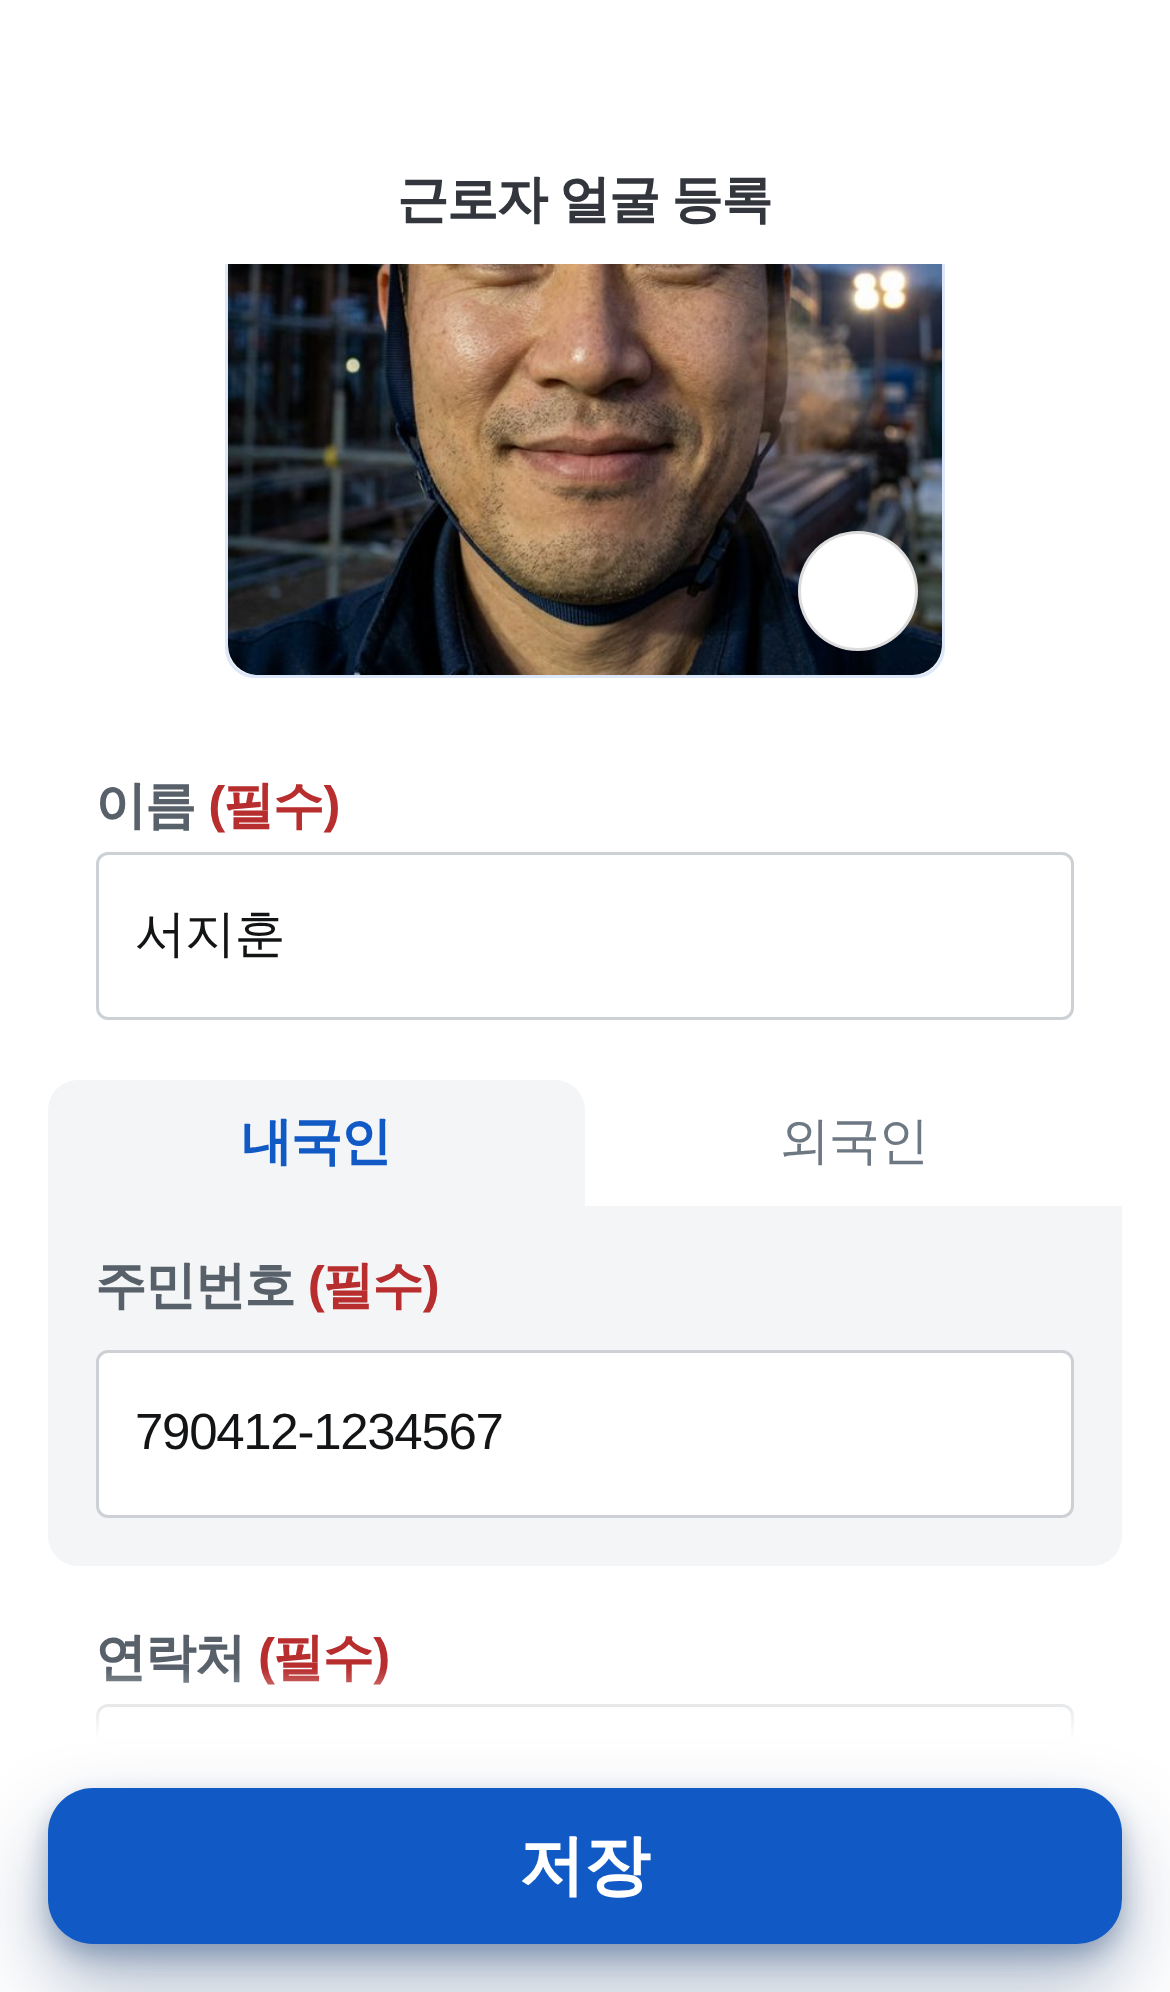
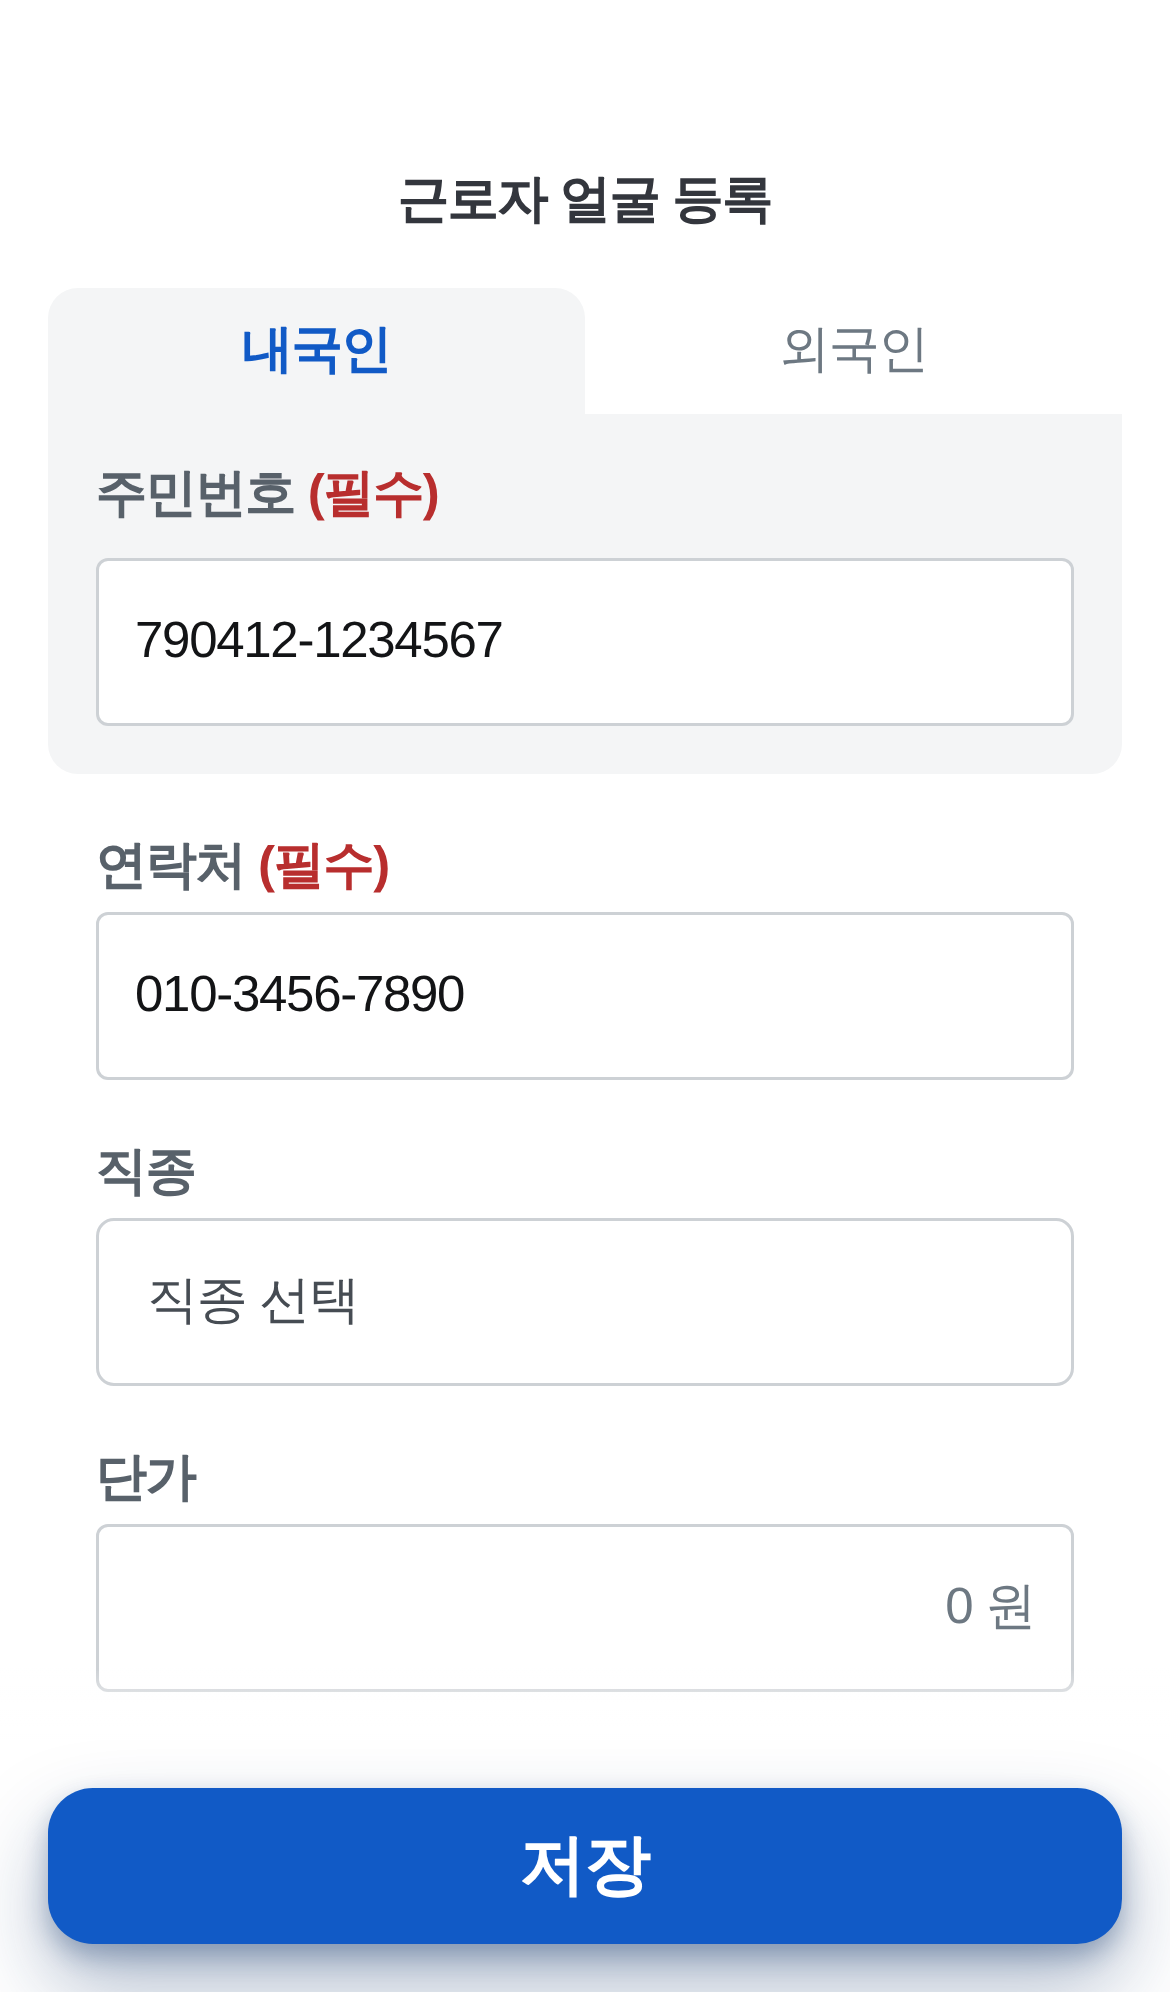
지금 적는 칸을 묻는 줄 바로 아래로 끌어올린다
답한 것이 위에 쌓여 가니 적을 칸이 그 아래에 묻혔다 — 굴려 찾아야 했다.
칸이 열릴 때마다 **묻는 줄 바로 아래**로 올린다(atop). 붙어 있는 그 줄이
가리지 않도록 줄의 키만큼 뺀다.

마지막 칸은 제 아래에 굴릴 것이 없어 끝까지 올라오지 못한다 — 모자란
만큼 본문 발치를 늘인다(--ap-flow-tail). 늘인 자리는 그 칸 아래에 남는
빈 자리이고, 다음 칸이 열리면 그만큼 줄어든다. 다 채우면 걷는다.
⚠ 한 번 셈으로는 모자랄 때가 있다 — 내용이 화면보다 짧으면 scrollHeight 가
  화면 키로 바닥을 치므로(max), 늘인 만큼이 그대로 굴릴 거리가 되지 않는다.
  모자라면 다시 재서 보탠다(최대 세 번).

자판이 올라와 화면이 줄 때도 같은 셈을 쓴다 — fit 의 near 가 가운데가
아니라 맨 위로 올린다(차례대로 묻는 폼일 때만).

화면설명 — 규칙 11: 끌어올리는 동작과 굴려 올리면 지나온 것이 그대로
있다는 것을 적었다.

검사: 이름·번호·연락처 세 자리 모두 적는 칸 위 = 묻는 줄 바닥(154)에
정확히 맞음 — 데스크톱(자판 그림)·폰·폰+자판 셋 다 · 다 채운 뒤는 꼬리
걷고 보통 폼 · validate ✅ · 앵커 111/76 탈 0 · anchback 187 · 0 ·
흐름 끝까지 · cal__n--on 1

Claude-Session: https://claude.ai/code/session_01Mo5aPUH3u6bJkjNTNVj2HG

diff --git a/assets/face-attendance-app.js b/assets/face-attendance-app.js
@@ -1503,6 +1503,40 @@
     see();
   }
 
+  /* ── 지금 적는 칸을 맨 위로 ──
+     차례대로 묻는 폼은 답한 것이 위에 쌓여 간다. 적을 칸이 그 아래에
+     묻혀 있으면 굴려 찾아야 하므로, **묻는 줄 바로 아래**로 올린다 —
+     붙어 있는 그 줄이 가리지 않도록 줄의 키만큼 뺀다.
+     더 굴릴 것이 없으면 갈 수 있는 만큼만 간다(짧은 화면에서는 제자리다).
+     ⚠ 아이폰은 칸에 초점이 가면 창째로 밀어 올린다 — 0 으로 되돌린다 */
+  function atop(scr, box) {
+    var bd = scr.querySelector('.body');
+    if (!bd || !box) return;
+    var q = scr.querySelector('.flow__q');
+    var pad = (q && getComputedStyle(q).position === 'sticky')
+      ? q.getBoundingClientRect().height : 0;
+
+    /* 꼬리를 걷고 재야 **본디 굴릴 수 있는 양**이 나온다 */
+    scr.style.setProperty('--ap-flow-tail', '0px');
+    var y = box.getBoundingClientRect().top - bd.getBoundingClientRect().top + bd.scrollTop;
+    var need = Math.max(0, y - pad);
+    var room = bd.scrollHeight - bd.clientHeight;
+    /* 마지막 칸은 제 아래에 굴릴 것이 없어 끝까지 올라오지 못한다 —
+       모자란 만큼 **본문 발치를 늘인다**. 늘인 자리는 그 칸 아래에 남는
+       빈 자리이고, 다음 칸이 열리면 그만큼 줄어든다.
+       ⚠ 한 번 셈으로는 모자랄 때가 있다 — 내용이 화면보다 짧으면
+         scrollHeight 가 화면 키로 바닥을 치므로(max), 늘인 만큼이 그대로
+         굴릴 거리가 되지 않는다. 모자라면 다시 재서 보탠다 */
+    var tail = 0;
+    for (var n = 0; n < 3 && room < need; n++) {
+      tail += need - room;
+      scr.style.setProperty('--ap-flow-tail', tail + 'px');
+      room = bd.scrollHeight - bd.clientHeight;
+    }
+    bd.scrollTop = need;
+    if (window.scrollY) window.scrollTo(0, 0);
+  }
+
   /* ── 한 번에 하나씩 묻는다 — `data-flow` ──
      꼭 받아야 하는 넷을 차례로 받는다(얼굴 → 이름 → 번호 → 연락처). 묻는
      줄이 맨 위에 서고 지금 받을 칸이 그 아래, 답한 것은 다시 그 아래로
@@ -1567,6 +1601,8 @@
       var done = at >= ASK.length;
       var ask = done ? '' : ASK[at];
       scr.classList.toggle('is-flow', !done);
+      /* 다 채우면 늘여 둔 발치도 걷는다 — 보통 폼에는 올릴 칸이 없다 */
+      if (done) scr.style.removeProperty('--ap-flow-tail');
       /* 얼굴 차례는 받을 칸이 없다 — 그림이 바탕을 채우고, 할 일은 바닥
          버튼 하나다(css 의 .is-ask-face) */
       scr.classList.toggle('is-ask-face', ask === 'face');
@@ -1592,18 +1628,12 @@
       act.setAttribute('aria-hidden', ok ? 'false' : 'true');
     }
 
-    /* 새로 연 칸은 **맨 아래**에 붙는다 — 보이지 않으면 보일 만큼만 내린다.
-       ⚠ 끝까지 내리면(scrollHeight) 자리가 넉넉한 날에도 묻는 줄이 위로
-         밀려 나간다. 'nearest' 는 이미 보이면 아무것도 하지 않는다 */
+    /* 새로 연 칸은 맨 아래에 붙는다 — 묻는 줄 바로 아래까지 끌어올린다 */
     function reach() {
       var box = at < ASK.length && kin(ASK[at])[0];
       if (!box) return;
-      function go() {
-        box.scrollIntoView({ block: 'nearest' });
-        if (window.scrollY) window.scrollTo(0, 0);
-      }
-      go();
-      requestAnimationFrame(go);
+      atop(scr, box);
+      requestAnimationFrame(function () { atop(scr, box); });
     }
 
     /* 다음 — 한 자리 나아가고, 새로 연 칸에 바로 적게 한다. 누름이 살아
@@ -1708,6 +1738,9 @@
       see();
       var el = document.activeElement;
       if (!el || !scr.contains(el)) return;
+      /* 차례대로 묻는 폼은 가운데가 아니라 **맨 위**다 — 위에 쌓인 것은
+         이미 답한 것이라, 적는 동안 보일 까닭이 없다 */
+      if (scr.classList.contains('is-flow')) { atop(scr, el.closest('[data-flow]')); return; }
       var box = el.closest('.fld,.idf,.fld__sub') || el;
       box.scrollIntoView({ block: 'center' });
       if (window.scrollY) window.scrollTo(0, 0);

diff --git a/face-attendance-app-prototype.html b/face-attendance-app-prototype.html
@@ -261,7 +261,7 @@
 번호는 받는 값이 통째로 갈리는 자리라, 칸 맨 위에 탭으로 먼저 가릅니다."
         data-steps="이름을 적고 '다음' 을 클릭한 상태"
         data-look="
-          |@{.flow__q} 묻는 줄은 아래로 굴려도 맨 위에 붙어 따라옵니다
+          |@{.flow__q} 묻는 줄은 굴려도 맨 위에 붙어 따라옵니다 — 지금 적는 칸은 늘 그 바로 아래입니다
           |@{.idf__tabs} 내국인·외국인은 칸 위의 탭으로 가릅니다 — 고른 쪽만 아래 면과 같은 색으로 이어집니다. 탭을 클릭하면 그쪽 화면으로 갑니다
           |@{.fld__l b} 필수 항목은 라벨 옆에 '(필수)' 가 붙습니다
           |'다음' 은 지금 묻는 칸이 차야 나타납니다 — 비어 있는 동안에는 자리만 지킨 채 비어 있습니다
@@ -292,7 +292,7 @@
         data-why="마지막 필수 칸입니다. 이것까지 차면 묻기를 멈춥니다."
         data-steps="번호를 적고 '다음' 을 클릭한 상태"
         data-look="
-          |@{.fld[data-flow=yeonrak]} 연락처 칸이 맨 아래에 붙습니다. 보이지 않으면 보일 만큼만 굴려 줍니다">번호를 적으면</button>
+          |@{.fld[data-flow=yeonrak]} 연락처 칸이 맨 아래에 붙고, 묻는 줄 바로 아래까지 끌어올려집니다 — 답한 것은 위로 올라가 보이지 않습니다. 굴려 올리면 그대로 있습니다">번호를 적으면</button>
       <button class="proto-nav-btn proto-nav-sub" type="button" data-scenario="m-worker-new-done"
         data-why="넷이 다 차면 묻기를 멈추고 보통 폼이 됩니다 — 얼굴 · 이름 · 번호 · 연락처 · 직종 · 단가 차례입니다. 근로자 상세(수정)와 같은 꼴이라, 등록이 끝나고 고치러 다시 들어와도 같은 것을 봅니다.
 

diff --git a/assets/face-attendance-app.css b/assets/face-attendance-app.css
@@ -1432,7 +1432,7 @@ html.is-app,html.is-app body{overflow:hidden;overscroll-behavior:none}
 /* ⚠ 바 높이만 주면 본문이 제 **아래 여백(16)을 잃는다** — 마지막 칸의
    아래 테가 바의 윗변에 그대로 닿아, 떠 있는 바가 칸을 덮은 것처럼 보였다.
    바 높이에 그 여백을 **더한다**: 좌우가 16 이니 아래도 16 이다 */
-.has-float-act .body{padding-bottom:calc(var(--ap-act-h) + var(--ap-p6))}
+.has-float-act .body{padding-bottom:calc(var(--ap-act-h) + var(--ap-p6) + var(--ap-flow-tail,0px))}
 .act__b{font:var(--t-title2);letter-spacing:var(--ls-title2);flex:1;min-width:0;display:flex;align-items:center;justify-content:center;gap:var(--ap-p2);padding:var(--ap-p6) var(--ap-p8)}
 .act__b--on{background:var(--ap-primary);color:var(--ap-g0)}
 .act__b--dark{background:var(--ap-g95);color:var(--ap-g0)}
